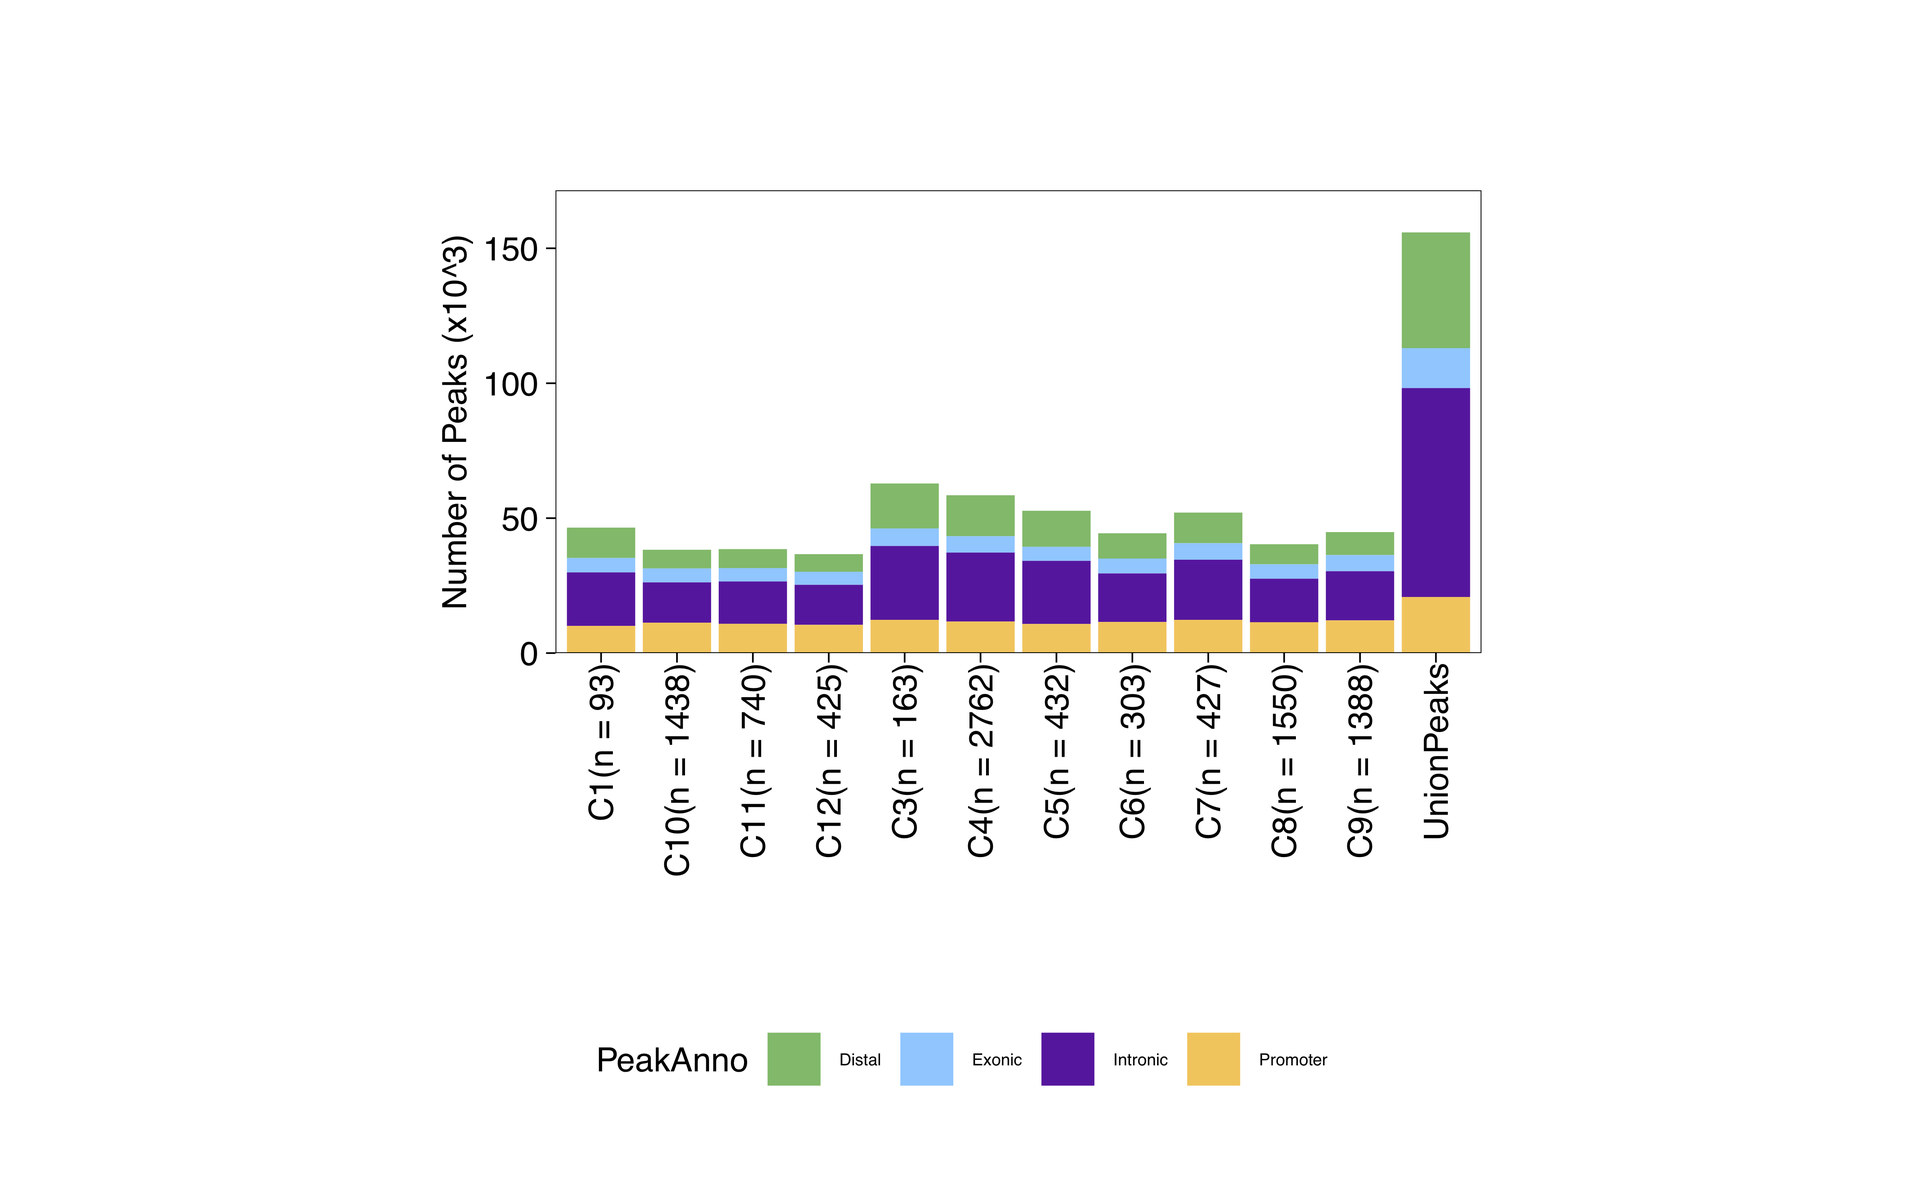
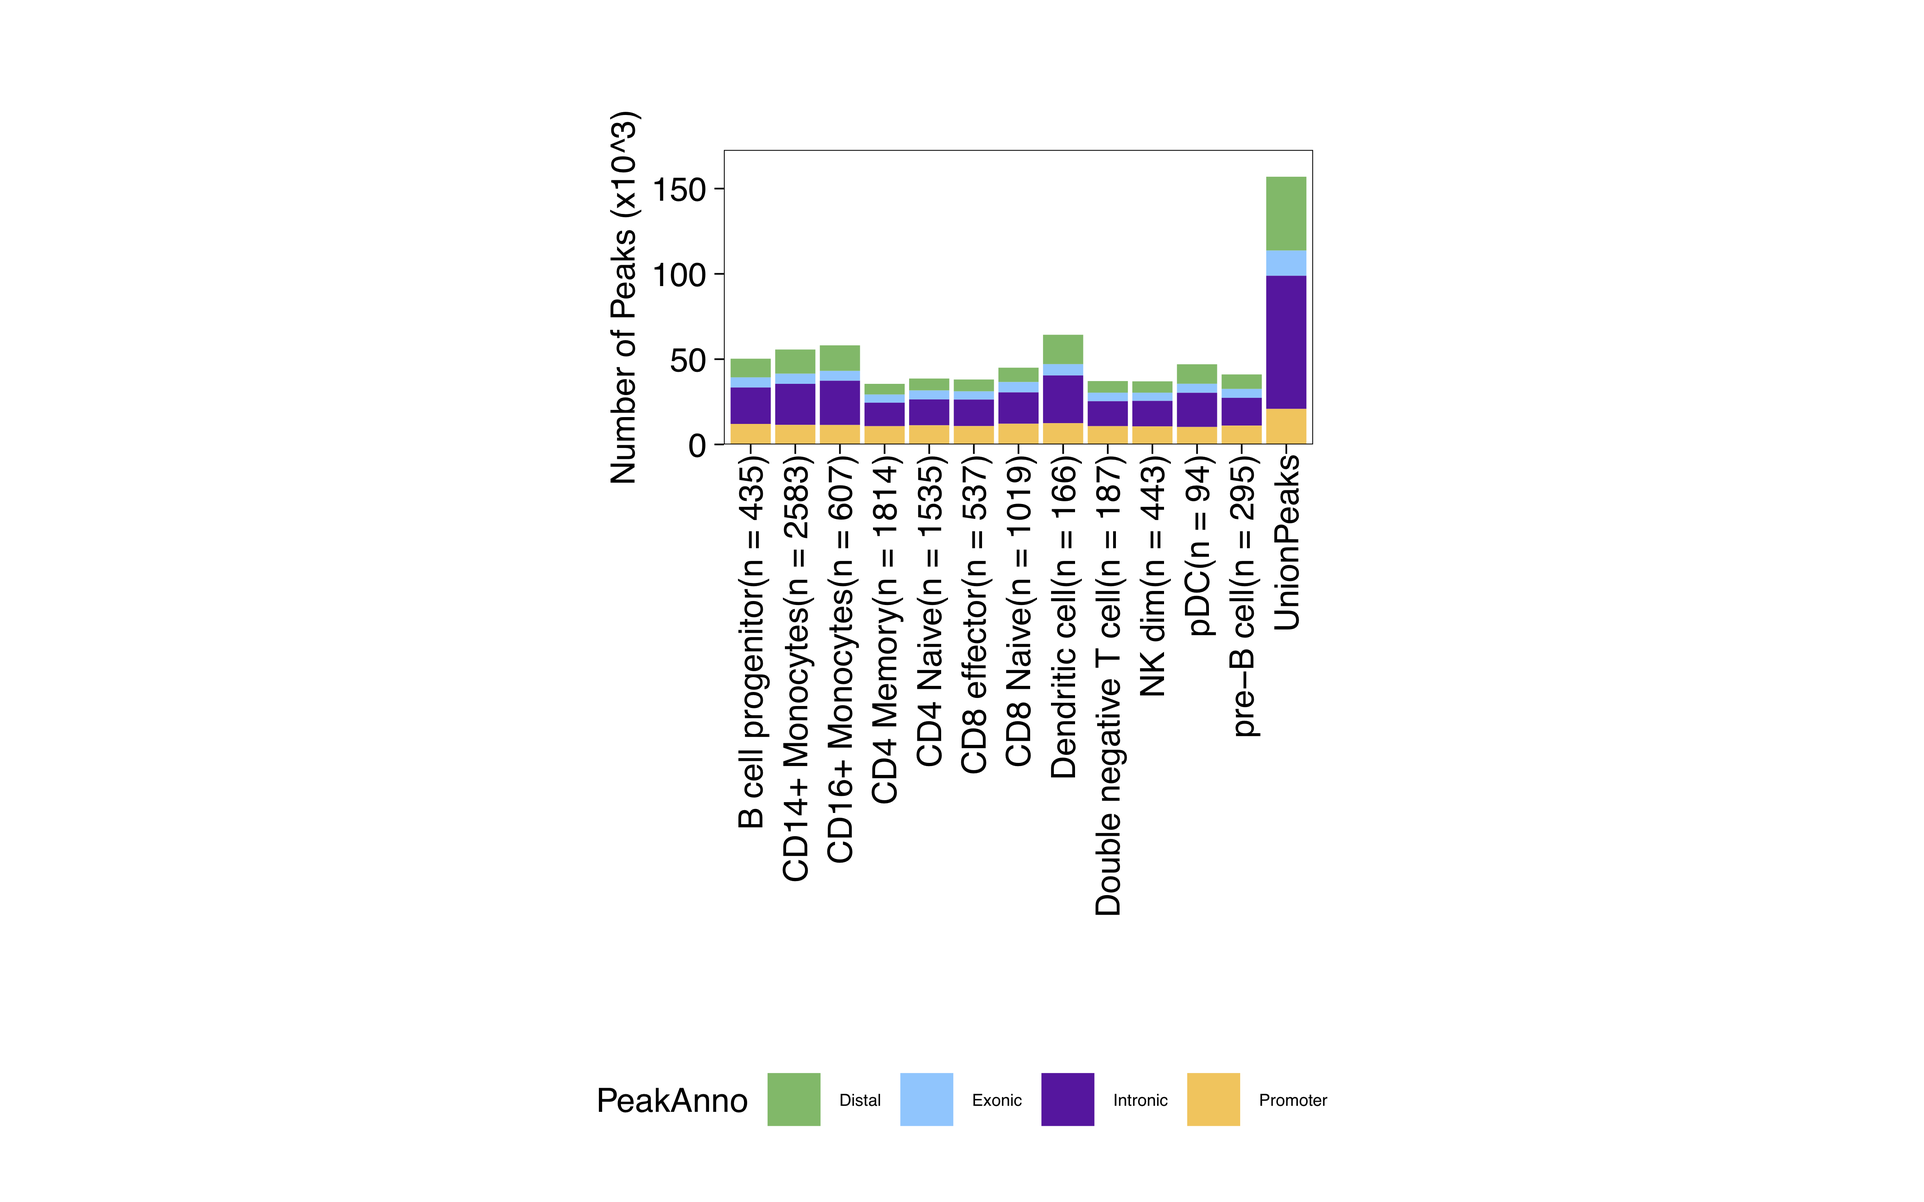
ArchR scATAC-seq peak annot

diff --git a/session1/01_scATAC-seq_ArchR.md b/session1/01_scATAC-seq_ArchR.md
@@ -421,7 +421,7 @@ As a reference, we will use a pre-processed scRNA-seq dataset for human PBMCs. P
 reference <- readRDS("data/pbmc_10k_v3.rds")
 
 # add gene integration matrix
-archrproj2 <- addGeneIntegrationMatrix(
+archrproj <- addGeneIntegrationMatrix(
     ArchRProj   = archrproj, 
     useMatrix   = "GeneScoreMatrix",
     matrixName  = "GeneIntegrationMatrix",
@@ -435,7 +435,7 @@ archrproj2 <- addGeneIntegrationMatrix(
 )
 
 # Plot UMAP with predicted cell types
-plotEmbedding(archrproj2, name = "predictedGroup_Un", embedding = "UMAP_ATAC", size = 1.5, labelAsFactors=F, labelMeans=F)
+plotEmbedding(archrproj, name = "predictedGroup_Un", embedding = "UMAP_ATAC", size = 1.5, labelAsFactors=F, labelMeans=F)
 
 ```
 
@@ -444,28 +444,28 @@ plotEmbedding(archrproj2, name = "predictedGroup_Un", embedding = "UMAP_ATAC", s
 <summary><b>Click for Answer</b></summary>
 
 ```
-ArchR logging to : ArchRLogs/ArchR-addGeneIntegrationMatrix-2cdba1242ff97-Date-2022-01-01_Time-18-32-58.log
+ArchR logging to : ArchRLogs/ArchR-addGeneIntegrationMatrix-2cdba6d0bc070-Date-2022-01-01_Time-19-26-35.log
 If there is an issue, please report to github with logFile!
-2022-01-01 18:32:59 : Running Seurat's Integration Stuart* et al 2019, 0.005 mins elapsed.
-2022-01-01 18:32:59 : Checking ATAC Input, 0.009 mins elapsed.
-2022-01-01 18:32:59 : Checking RNA Input, 0.009 mins elapsed.
-2022-01-01 18:33:02 : Found 15350 overlapping gene names from gene scores and rna matrix!, 0.061 mins elapsed.
-2022-01-01 18:33:02 : Creating Integration Blocks, 0.061 mins elapsed.
-2022-01-01 18:33:02 : Prepping Interation Data, 0.062 mins elapsed.
-2022-01-01 18:33:02 : Computing Integration in 1 Integration Blocks!, 0 mins elapsed.
-2022-01-01 18:33:02 : Block (1 of 1) : Computing Integration, 0 mins elapsed.
-2022-01-01 18:33:05 : Block (1 of 1) : Identifying Variable Genes, 0.05 mins elapsed.
-2022-01-01 18:33:10 : Block (1 of 1) : Getting GeneScoreMatrix, 0.135 mins elapsed.
-2022-01-01 18:33:26 : Block (1 of 1) : Imputing GeneScoreMatrix, 0.389 mins elapsed.
+2022-01-01 19:26:35 : Running Seurat's Integration Stuart* et al 2019, 0.007 mins elapsed.
+2022-01-01 19:26:35 : Checking ATAC Input, 0.009 mins elapsed.
+2022-01-01 19:26:35 : Checking RNA Input, 0.009 mins elapsed.
+2022-01-01 19:26:39 : Found 15350 overlapping gene names from gene scores and rna matrix!, 0.074 mins elapsed.
+2022-01-01 19:26:39 : Creating Integration Blocks, 0.074 mins elapsed.
+2022-01-01 19:26:39 : Prepping Interation Data, 0.075 mins elapsed.
+2022-01-01 19:26:40 : Computing Integration in 1 Integration Blocks!, 0 mins elapsed.
+2022-01-01 19:26:40 : Block (1 of 1) : Computing Integration, 0 mins elapsed.
+2022-01-01 19:26:42 : Block (1 of 1) : Identifying Variable Genes, 0.035 mins elapsed.
+2022-01-01 19:26:47 : Block (1 of 1) : Getting GeneScoreMatrix, 0.113 mins elapsed.
+2022-01-01 19:27:02 : Block (1 of 1) : Imputing GeneScoreMatrix, 0.362 mins elapsed.
 Getting ImputeWeights
-2022-01-01 18:34:21 : Block (1 of 1) : Seurat FindTransferAnchors, 1.306 mins elapsed.
-2022-01-01 18:36:40 : Block (1 of 1) : Seurat TransferData Cell Group Labels, 3.637 mins elapsed.
-2022-01-01 18:36:43 : Block (1 of 1) : Seurat TransferData Cell Names Labels, 3.676 mins elapsed.
-2022-01-01 18:37:03 : Block (1 of 1) : Saving TransferAnchors Joint CCA, 4.018 mins elapsed.
-2022-01-01 18:37:05 : Block (1 of 1) : Completed Integration, 4.04 mins elapsed.
-2022-01-01 18:37:06 : Block (1 of 1) : Plotting Joint UMAP, 4.054 mins elapsed.
-2022-01-01 18:37:52 : Completed Integration with RNA Matrix, 4.833 mins elapsed.
-ArchR logging successful to : ArchRLogs/ArchR-addGeneIntegrationMatrix-2cdba1242ff97-Date-2022-01-01_Time-18-32-58.log
+2022-01-01 19:27:57 : Block (1 of 1) : Seurat FindTransferAnchors, 1.292 mins elapsed.
+2022-01-01 19:30:09 : Block (1 of 1) : Seurat TransferData Cell Group Labels, 3.48 mins elapsed.
+2022-01-01 19:30:11 : Block (1 of 1) : Seurat TransferData Cell Names Labels, 3.518 mins elapsed.
+2022-01-01 19:30:32 : Block (1 of 1) : Saving TransferAnchors Joint CCA, 3.865 mins elapsed.
+2022-01-01 19:30:33 : Block (1 of 1) : Completed Integration, 3.891 mins elapsed.
+2022-01-01 19:30:34 : Block (1 of 1) : Plotting Joint UMAP, 3.909 mins elapsed.
+2022-01-01 19:31:23 : Completed Integration with RNA Matrix, 4.717 mins elapsed.
+ArchR logging successful to : ArchRLogs/ArchR-addGeneIntegrationMatrix-2cdba6d0bc070-Date-2022-01-01_Time-19-26-35.log
 ```
 
 <img src="figs/archr_atac_UMAP_prediction.png" width="90%" />
@@ -484,7 +484,7 @@ First we have to define pseudo-bulk replicates to call peaks on them, ArchR merg
 ##––––––––––––––––––––––––––––––––––––––––––––––––––––––––––––––––––––––––––––##
 ##                       Defining pseudo-bulk replicates                      ##
 ##––––––––––––––––––––––––––––––––––––––––––––––––––––––––––––––––––––––––––––##
-archrproj <- addGroupCoverages(ArchRProj = archrproj, groupBy = "Clusters")
+archrproj <- addGroupCoverages(ArchRProj = archrproj, groupBy = "predictedGroup_Un")
 
 ```
 
@@ -492,13 +492,13 @@ archrproj <- addGroupCoverages(ArchRProj = archrproj, groupBy = "Clusters")
 <summary><b>Click for Answer</b></summary>
 
 ```
-ArchR logging to : ArchRLogs/ArchR-addGroupCoverages-2cdba7390b40b-Date-2022-01-01_Time-18-43-51.log
+ArchR logging to : ArchRLogs/ArchR-addGroupCoverages-2cdba30dbb619-Date-2022-01-01_Time-19-32-02.log
 If there is an issue, please report to github with logFile!
-2022-01-01 18:43:52 : Creating Coverage Files!, 0.021 mins elapsed.
-2022-01-01 18:43:52 : Batch Execution w/ safelapply!, 0.021 mins elapsed.
-2022-01-01 18:44:44 : Adding Kmer Bias to Coverage Files!, 0.875 mins elapsed.
-2022-01-01 18:45:31 : Finished Creation of Coverage Files!, 1.672 mins elapsed.
-ArchR logging successful to : ArchRLogs/ArchR-addGroupCoverages-2cdba7390b40b-Date-2022-01-01_Time-18-43-51.log
+2022-01-01 19:32:03 : Creating Coverage Files!, 0.026 mins elapsed.
+2022-01-01 19:32:03 : Batch Execution w/ safelapply!, 0.026 mins elapsed.
+2022-01-01 19:33:04 : Adding Kmer Bias to Coverage Files!, 1.043 mins elapsed.
+2022-01-01 19:34:09 : Finished Creation of Coverage Files!, 2.115 mins elapsed.
+ArchR logging successful to : ArchRLogs/ArchR-addGroupCoverages-2cdba30dbb619-Date-2022-01-01_Time-19-32-02.log
     
 ```
 </details>
@@ -507,12 +507,12 @@ Now we can call peaks using the pseudo-bulk replicates, and add the peak matrix 
 
 ```r
 ##––––––––––––––––––––––––––––––––––––––––––––––––––––––––––––––––––––––––––––##
-##                       Defining pseudo-bulk replicates                      ##
+##             Defining pseudo-bulk replicates and calling peaks              ##
 ##––––––––––––––––––––––––––––––––––––––––––––––––––––––––––––––––––––––––––––##
 pathToMacs2 <- "/shared/software/miniconda/envs/macs2-2.2.7.1/bin/macs2"
 archrproj <- addReproduciblePeakSet(
   ArchRProj = archrproj,
-  groupBy = "Clusters",
+  groupBy = "predictedGroup_Un",
   pathToMacs2 = pathToMacs2
 )
 
@@ -523,67 +523,60 @@ archrproj <- addPeakMatrix(archrproj)
 <summary><b>Click for Answer</b></summary>
 
 ```
-ArchR logging to : ArchRLogs/ArchR-addGroupCoverages-2cdba7390b40b-Date-2022-01-01_Time-18-43-51.log
+ArchR logging to : ArchRLogs/ArchR-addReproduciblePeakSet-2cdba3250975c-Date-2022-01-01_Time-19-34-21.log
 If there is an issue, please report to github with logFile!
-2022-01-01 18:43:52 : Creating Coverage Files!, 0.021 mins elapsed.
-2022-01-01 18:43:52 : Batch Execution w/ safelapply!, 0.021 mins elapsed.
-2022-01-01 18:44:44 : Adding Kmer Bias to Coverage Files!, 0.875 mins elapsed.
-2022-01-01 18:45:31 : Finished Creation of Coverage Files!, 1.672 mins elapsed.
-ArchR logging successful to : ArchRLogs/ArchR-addGroupCoverages-2cdba7390b40b-Date-2022-01-01_Time-18-43-51.log
-
-
-ArchR logging to : ArchRLogs/ArchR-addReproduciblePeakSet-2cdba65dbcb5a-Date-2022-01-01_Time-18-46-35.log
-If there is an issue, please report to github with logFile!
-2022-01-01 18:46:36 : Peak Calling Parameters!, 0.014 mins elapsed.
-    Group nCells nCellsUsed nReplicates nMin nMax maxPeaks
-C1     C1     93         93           2   40   53    46500
-C2     C2     26         26           2   19   19    13000
-C3     C3    163        163           2   40  123    81500
-C4     C4   2762        540           2   40  500   150000
-C5     C5    432        432           2   40  392   150000
-C6     C6    303        303           2   40  263   150000
-C7     C7    427        427           2   40  387   150000
-C8     C8   1550        540           2   40  500   150000
-C9     C9   1388        540           2   40  500   150000
-C10   C10   1438        540           2   40  500   150000
-C11   C11    740        540           2   40  500   150000
-C12   C12    425        425           2   40  385   150000
-2022-01-01 18:46:36 : Batching Peak Calls!, 0.015 mins elapsed.
-2022-01-01 18:46:36 : Batch Execution w/ safelapply!, 0 mins elapsed.
-2022-01-01 18:48:41 : Identifying Reproducible Peaks!, 2.09 mins elapsed.
-2022-01-01 18:48:52 : Creating Union Peak Set!, 2.27 mins elapsed.
+2022-01-01 19:34:22 : Peak Calling Parameters!, 0.016 mins elapsed.
+                                        Group nCells nCellsUsed nReplicates nMin nMax maxPeaks
+B cell progenitor           B cell progenitor    435        435           2   40  395   150000
+CD4 Memory                         CD4 Memory   1814        540           2   40  500   150000
+CD4 Naive                           CD4 Naive   1535        540           2   40  500   150000
+CD8 effector                     CD8 effector    537        537           2   40  497   150000
+CD8 Naive                           CD8 Naive   1019        540           2   40  500   150000
+CD14+ Monocytes               CD14+ Monocytes   2583        540           2   40  500   150000
+CD16+ Monocytes               CD16+ Monocytes    607        540           2   40  500   150000
+Dendritic cell                 Dendritic cell    166        166           2   40  126    83000
+Double negative T cell Double negative T cell    187        187           2   40  147    93500
+NK bright                           NK bright      7          7           2    6    7     3500
+NK dim                                 NK dim    443        443           2   40  403   150000
+pDC                                       pDC     94         94           2   40   54    47000
+Platelet                             Platelet     25         25           2   18   20    12500
+pre-B cell                         pre-B cell    295        295           2   40  255   147500
+2022-01-01 19:34:22 : Batching Peak Calls!, 0.016 mins elapsed.
+2022-01-01 19:34:22 : Batch Execution w/ safelapply!, 0 mins elapsed.
+2022-01-01 19:36:13 : Identifying Reproducible Peaks!, 1.87 mins elapsed.
+2022-01-01 19:36:23 : Creating Union Peak Set!, 2.024 mins elapsed.
 Converged after 9 iterations!
 Plotting Ggplot!
-2022-01-01 18:49:01 : Finished Creating Union Peak Set (155890)!, 2.434 mins elapsed.
+2022-01-01 19:36:32 : Finished Creating Union Peak Set (156943)!, 2.187 mins elapsed.
 
 
-ArchR logging to : ArchRLogs/ArchR-addPeakMatrix-2cdba71bf5d27-Date-2022-01-01_Time-18-57-12.log
+ArchR logging to : ArchRLogs/ArchR-addPeakMatrix-2cdba2f264879-Date-2022-01-01_Time-19-36-32.log
 If there is an issue, please report to github with logFile!
-2022-01-01 18:57:13 : Batch Execution w/ safelapply!, 0 mins elapsed.
-2022-01-01 18:57:13 : Adding PBMC_10k to PeakMatrix for Chr (1 of 23)!, 0.01 mins elapsed.
-2022-01-01 18:57:27 : Adding PBMC_10k to PeakMatrix for Chr (2 of 23)!, 0.23 mins elapsed.
-2022-01-01 18:57:35 : Adding PBMC_10k to PeakMatrix for Chr (3 of 23)!, 0.374 mins elapsed.
-2022-01-01 18:57:43 : Adding PBMC_10k to PeakMatrix for Chr (4 of 23)!, 0.495 mins elapsed.
-2022-01-01 18:57:47 : Adding PBMC_10k to PeakMatrix for Chr (5 of 23)!, 0.576 mins elapsed.
-2022-01-01 18:57:53 : Adding PBMC_10k to PeakMatrix for Chr (6 of 23)!, 0.678 mins elapsed.
-2022-01-01 18:58:01 : Adding PBMC_10k to PeakMatrix for Chr (7 of 23)!, 0.796 mins elapsed.
-2022-01-01 18:58:06 : Adding PBMC_10k to PeakMatrix for Chr (8 of 23)!, 0.892 mins elapsed.
-2022-01-01 18:58:11 : Adding PBMC_10k to PeakMatrix for Chr (9 of 23)!, 0.976 mins elapsed.
-2022-01-01 18:58:17 : Adding PBMC_10k to PeakMatrix for Chr (10 of 23)!, 1.065 mins elapsed.
-2022-01-01 18:58:22 : Adding PBMC_10k to PeakMatrix for Chr (11 of 23)!, 1.158 mins elapsed.
-2022-01-01 18:58:29 : Adding PBMC_10k to PeakMatrix for Chr (12 of 23)!, 1.268 mins elapsed.
-2022-01-01 18:58:35 : Adding PBMC_10k to PeakMatrix for Chr (13 of 23)!, 1.376 mins elapsed.
-2022-01-01 18:58:39 : Adding PBMC_10k to PeakMatrix for Chr (14 of 23)!, 1.436 mins elapsed.
-2022-01-01 18:58:44 : Adding PBMC_10k to PeakMatrix for Chr (15 of 23)!, 1.516 mins elapsed.
-2022-01-01 18:58:48 : Adding PBMC_10k to PeakMatrix for Chr (16 of 23)!, 1.592 mins elapsed.
-2022-01-01 18:58:54 : Adding PBMC_10k to PeakMatrix for Chr (17 of 23)!, 1.69 mins elapsed.
-2022-01-01 18:59:02 : Adding PBMC_10k to PeakMatrix for Chr (18 of 23)!, 1.814 mins elapsed.
-2022-01-01 18:59:05 : Adding PBMC_10k to PeakMatrix for Chr (19 of 23)!, 1.868 mins elapsed.
-2022-01-01 18:59:13 : Adding PBMC_10k to PeakMatrix for Chr (20 of 23)!, 2.002 mins elapsed.
-2022-01-01 18:59:17 : Adding PBMC_10k to PeakMatrix for Chr (21 of 23)!, 2.074 mins elapsed.
-2022-01-01 18:59:20 : Adding PBMC_10k to PeakMatrix for Chr (22 of 23)!, 2.123 mins elapsed.
-2022-01-01 18:59:24 : Adding PBMC_10k to PeakMatrix for Chr (23 of 23)!, 2.193 mins elapsed.
-ArchR logging successful to : ArchRLogs/ArchR-addPeakMatrix-2cdba71bf5d27-Date-2022-01-01_Time-18-57-12.log
+2022-01-01 19:36:33 : Batch Execution w/ safelapply!, 0 mins elapsed.
+2022-01-01 19:37:25 : Adding PBMC_10k to PeakMatrix for Chr (1 of 23)!, 0.022 mins elapsed.
+2022-01-01 19:37:37 : Adding PBMC_10k to PeakMatrix for Chr (2 of 23)!, 0.235 mins elapsed.
+2022-01-01 19:37:46 : Adding PBMC_10k to PeakMatrix for Chr (3 of 23)!, 0.387 mins elapsed.
+2022-01-01 19:37:54 : Adding PBMC_10k to PeakMatrix for Chr (4 of 23)!, 0.512 mins elapsed.
+2022-01-01 19:37:59 : Adding PBMC_10k to PeakMatrix for Chr (5 of 23)!, 0.602 mins elapsed.
+2022-01-01 19:38:06 : Adding PBMC_10k to PeakMatrix for Chr (6 of 23)!, 0.71 mins elapsed.
+2022-01-01 19:38:13 : Adding PBMC_10k to PeakMatrix for Chr (7 of 23)!, 0.835 mins elapsed.
+2022-01-01 19:38:20 : Adding PBMC_10k to PeakMatrix for Chr (8 of 23)!, 0.94 mins elapsed.
+2022-01-01 19:38:25 : Adding PBMC_10k to PeakMatrix for Chr (9 of 23)!, 1.032 mins elapsed.
+2022-01-01 19:38:31 : Adding PBMC_10k to PeakMatrix for Chr (10 of 23)!, 1.13 mins elapsed.
+2022-01-01 19:38:37 : Adding PBMC_10k to PeakMatrix for Chr (11 of 23)!, 1.23 mins elapsed.
+2022-01-01 19:38:44 : Adding PBMC_10k to PeakMatrix for Chr (12 of 23)!, 1.349 mins elapsed.
+2022-01-01 19:38:51 : Adding PBMC_10k to PeakMatrix for Chr (13 of 23)!, 1.465 mins elapsed.
+2022-01-01 19:38:55 : Adding PBMC_10k to PeakMatrix for Chr (14 of 23)!, 1.533 mins elapsed.
+2022-01-01 19:39:00 : Adding PBMC_10k to PeakMatrix for Chr (15 of 23)!, 1.619 mins elapsed.
+2022-01-01 19:39:06 : Adding PBMC_10k to PeakMatrix for Chr (16 of 23)!, 1.706 mins elapsed.
+2022-01-01 19:39:12 : Adding PBMC_10k to PeakMatrix for Chr (17 of 23)!, 1.809 mins elapsed.
+2022-01-01 19:39:20 : Adding PBMC_10k to PeakMatrix for Chr (18 of 23)!, 1.942 mins elapsed.
+2022-01-01 19:39:24 : Adding PBMC_10k to PeakMatrix for Chr (19 of 23)!, 2.006 mins elapsed.
+2022-01-01 19:39:32 : Adding PBMC_10k to PeakMatrix for Chr (20 of 23)!, 2.142 mins elapsed.
+2022-01-01 19:39:37 : Adding PBMC_10k to PeakMatrix for Chr (21 of 23)!, 2.221 mins elapsed.
+2022-01-01 19:39:40 : Adding PBMC_10k to PeakMatrix for Chr (22 of 23)!, 2.28 mins elapsed.
+2022-01-01 19:39:45 : Adding PBMC_10k to PeakMatrix for Chr (23 of 23)!, 2.356 mins elapsed.
+ArchR logging successful to : ArchRLogs/ArchR-addPeakMatrix-2cdba2f264879-Date-2022-01-01_Time-19-36-32.log
     
 ```
 
@@ -593,4 +586,103 @@ Remember to look in the **Plots** folder of you ArchR project output directory:
 
 </details>
 
+## Annotating peaks and Footprinting
 
+One of the biggest advantages of ArchR is that it provides a complete set of functions to perform a downstream analysis on the identified peaks.
+
+
+After identifying peaks for each cell type, we can also search for marker peaks for each of these groups.
+ArchR can also take into account differences in data quality between cell types by setting the bias parameter to account for TSS enrichment and the number of unique fragments per cell.
+
+
+```r
+markersPeaks <- getMarkerFeatures(
+    ArchRProj = archrproj, 
+    useMatrix = "PeakMatrix", 
+    groupBy = "predictedGroup_Un",
+  bias = c("TSSEnrichment", "log10(nFrags)"),
+  testMethod = "wilcoxon"
+)
+```
+
+The markersPeaks object is SummarizedExperiment that contains different assays containing marker peaks for each cell type.
+The following helper functions allow us to retreive markers we are interested in:
+
+- getMarkers(): The default behavior of this function is to return a list of DataFrame objects, one for each cell group.
+- getMarkers() with option returnGR = TRUE: Instead of a list of DataFrame objects returns a GRangesList object with the marker peaks.
+
+```r
+markersPeaks
+
+```
+
+<details>
+<summary><b>Click for Answer</b></summary>
+
+```
+class: SummarizedExperiment 
+dim: 156943 14 
+metadata(2): MatchInfo Params
+assays(7): Log2FC Mean ... AUC MeanBGD
+rownames(156943): 1 2 ... 156942 156943
+rowData names(4): seqnames idx start end
+colnames(14): B cell progenitor CD4 Memory ... Platelet pre-B cell
+colData names(0):
+
+```
+
+
+</details>
+
+
+Then, we will search for motifs that are enriched in peaks that are up or down in various cell types. 
+
+The first step to do this, is to match a set of motifs to our previously identified peaks:
+
+```r
+archrproj <- addMotifAnnotations(ArchRProj = archrproj, motifSet = "cisbp", name = "Motif", force=T)
+
+motifPositions <- getPositions(archrproj)
+motifPositions
+```
+
+
+<details>
+<summary><b>Click for Answer</b></summary>
+
+
+```
+ArchR logging to : ArchRLogs/ArchR-addMotifAnnotations-2cdba5becc92d-Date-2022-01-01_Time-19-41-24.log
+If there is an issue, please report to github with logFile!
+2022-01-01 19:41:24 : Gettting Motif Set, Species : Homo sapiens, 0.008 mins elapsed.
+Using version 2 motifs!
+2022-01-01 19:41:27 : Finding Motif Positions with motifmatchr!, 0.051 mins elapsed.
+2022-01-01 19:44:58 : Creating Motif Overlap Matrix, 3.577 mins elapsed.
+2022-01-01 19:45:01 : Finished Getting Motif Info!, 3.621 mins elapsed.
+ArchR logging successful to : ArchRLogs/ArchR-addMotifAnnotations-2cdba5becc92d-Date-2022-01-01_Time-19-41-24.log
+
+GRangesList object of length 870:
+$TFAP2B_1
+GRanges object with 18237 ranges and 1 metadata column:
+          seqnames              ranges strand |     score
+             <Rle>           <IRanges>  <Rle> | <numeric>
+      [1]     chr1       925412-925423      - |   8.33885
+      [2]     chr1       938095-938106      + |   8.43023
+      [3]     chr1       961090-961101      + |   8.77640
+      [4]     chr1       961291-961302      + |   9.88526
+      [5]     chr1       961090-961101      - |   8.70388
+      ...      ...                 ...    ... .       ...
+  [18233]     chrX 154732833-154732844      + |   8.11530
+  [18234]     chrX 154751280-154751291      - |   9.03277
+  [18235]     chrX 154762826-154762837      + |   8.26625
+  [18236]     chrX 155071293-155071304      + |   8.82438
+  [18237]     chrX 155071293-155071304      - |   8.04768
+  -------
+  seqinfo: 23 sequences from an unspecified genome; no seqlengths
+
+...
+<869 more elements>
+
+
+```
+</details>
